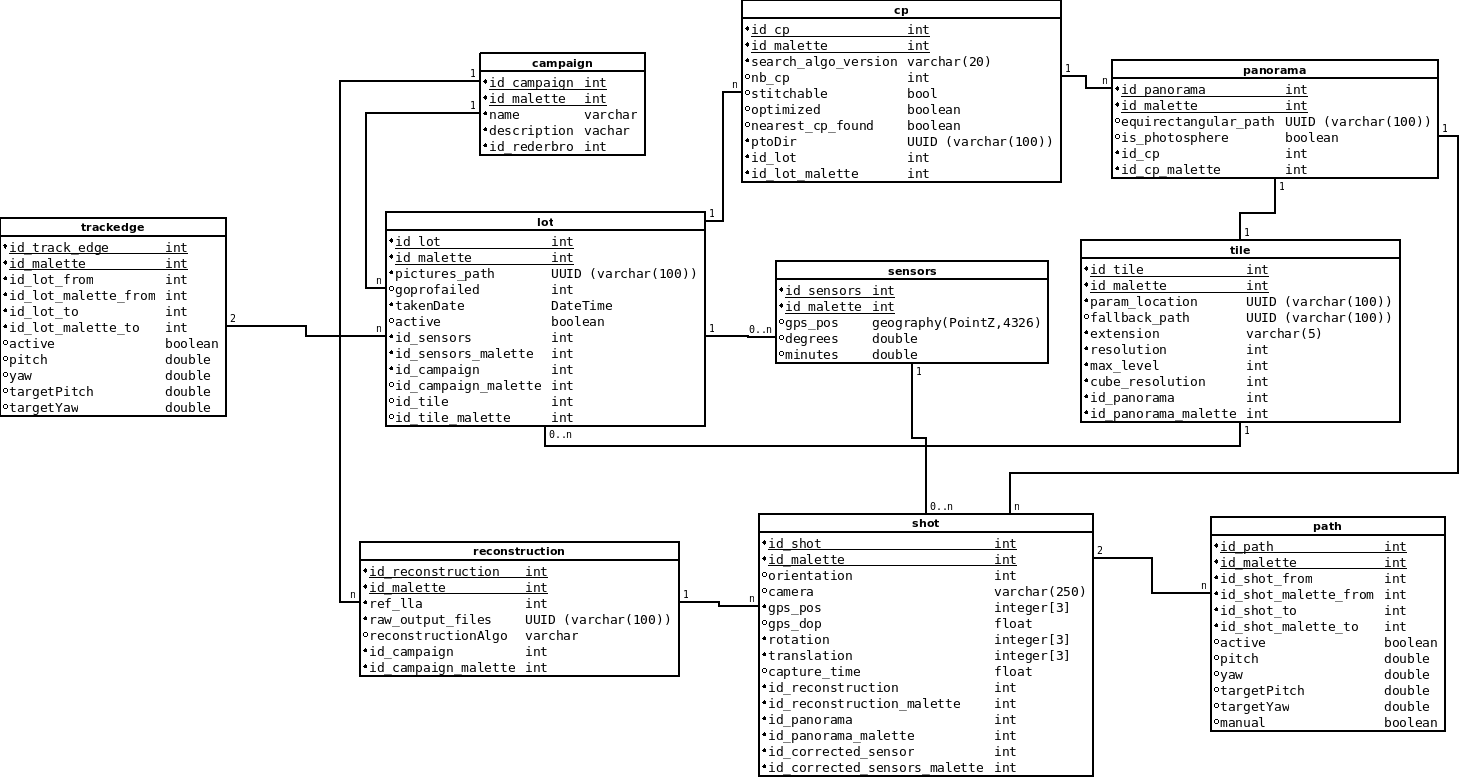
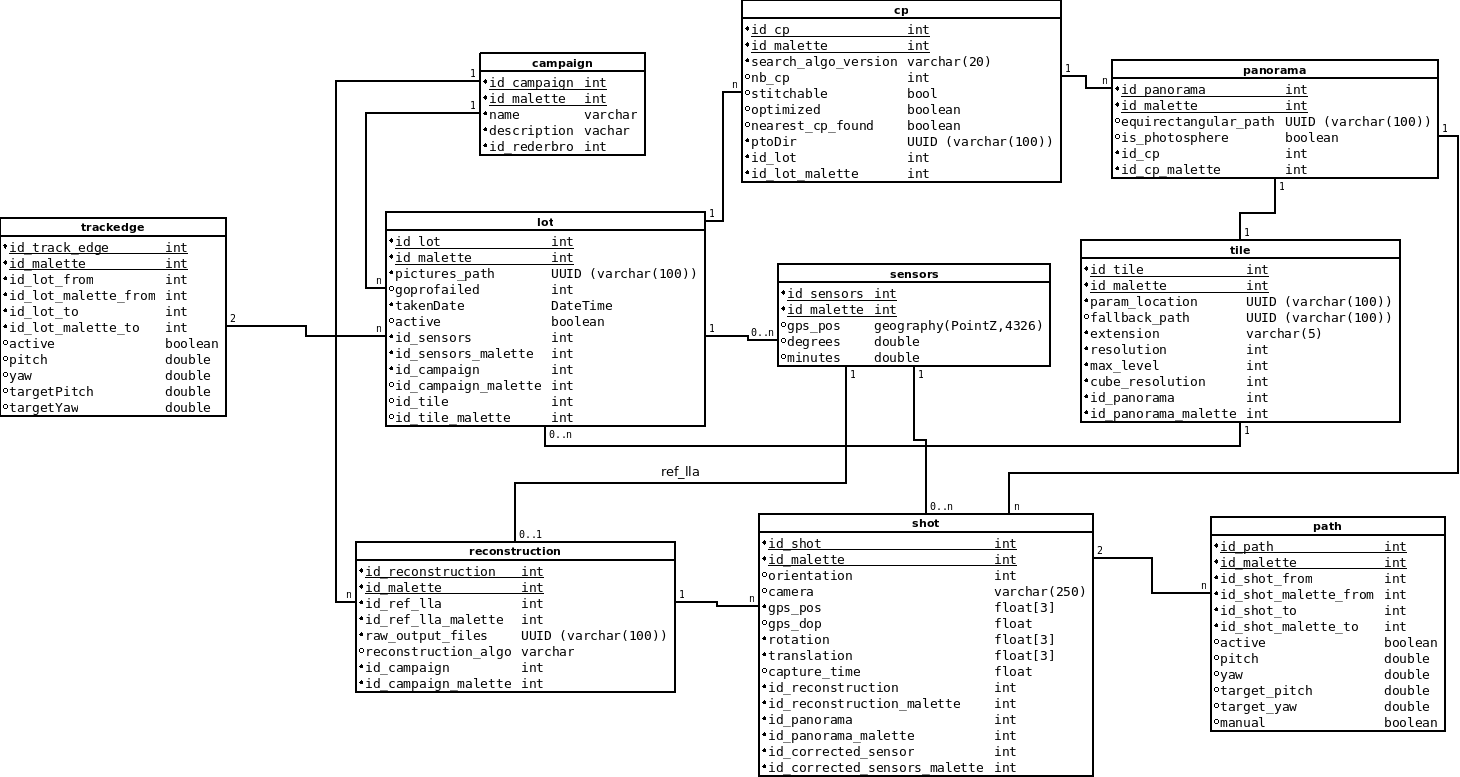
Updating DB documentation and adding migration script

diff --git a/dbrest/database/migrate_repository/versions/001_OpenSFM_tables_.py b/dbrest/database/migrate_repository/versions/001_OpenSFM_tables_.py
@@ -1,0 +1,110 @@
+from sqlalchemy import *
+from migrate import *
+
+
+from migrate.changeset import schema
+pre_meta = MetaData()
+post_meta = MetaData()
+path = Table('path', post_meta,
+    Column('id_path', Integer, primary_key=True, nullable=False),
+    Column('id_malette', Integer, primary_key=True, nullable=False),
+    Column('id_shot_from', Integer, nullable=False),
+    Column('id_shot_malette_from', Integer, nullable=False),
+    Column('id_shot_to', Integer, nullable=False),
+    Column('id_shot_malette_to', Integer, nullable=False),
+    Column('active', Boolean, default=ColumnDefault(True)),
+    Column('pitch', Float),
+    Column('yaw', Float),
+    Column('target_pitch', Float),
+    Column('target_yaw', Float),
+    Column('manual', Boolean, default=ColumnDefault(False)),
+)
+
+reconstruction = Table('reconstruction', post_meta,
+    Column('id_reconstruction', Integer, primary_key=True, nullable=False),
+    Column('id_malette', Integer, primary_key=True, nullable=False),
+    Column('id_ref_lla', Integer, nullable=False),
+    Column('id_ref_lla_malette', Integer, nullable=False),
+    Column('raw_output_files', String(length=100), nullable=False),
+    Column('reconstruction_algo', String(length=20), nullable=False),
+    Column('id_campaign', Integer, nullable=False),
+    Column('id_campaign_malette', Integer, nullable=False),
+)
+
+shot = Table('shot', post_meta,
+    Column('id_shot', Integer, primary_key=True, nullable=False),
+    Column('id_malette', Integer, primary_key=True, nullable=False),
+    Column('orientation', Integer),
+    Column('camera', String(length=250)),
+    Column('gps_pos', ARRAY(Float(), dimensions=3), nullable=False),
+    Column('gps_dop', Float),
+    Column('rotation', ARRAY(Float(), dimensions=3), nullable=False),
+    Column('translation', ARRAY(Float(), dimensions=3), nullable=False),
+    Column('capture_time', Float),
+    Column('id_reconstruction', Integer, nullable=False),
+    Column('id_reconstruction_malette', Integer, nullable=False),
+    Column('id_panorama', Integer, nullable=False),
+    Column('id_panorama_malette', Integer, nullable=False),
+    Column('id_corrected_sensor', Integer),
+    Column('id_corrected_sensor_malette', Integer),
+)
+
+
+upgradefKeySQL = """
+ALTER TABLE reconstruction
+ADD CONSTRAINT reconstruction_id_campaign_fkey  FOREIGN KEY (id_campaign, id_campaign_malette)
+                                                REFERENCES campaign(id_campaign, id_malette),
+ADD CONSTRAINT reconstruction_id_ref_lla_fkey  FOREIGN KEY (id_ref_lla, id_ref_lla_malette)
+                                               REFERENCES sensors(id_sensors, id_malette);
+
+ALTER TABLE shot
+ADD CONSTRAINT shot_id_reconstruction_fkey FOREIGN KEY (id_reconstruction, id_reconstruction_malette)
+                                           REFERENCES reconstruction(id_reconstruction, id_malette),
+ADD CONSTRAINT shot_id_panorama_fkey FOREIGN KEY (id_panorama, id_panorama_malette)
+                                     REFERENCES panorama(id_panorama, id_malette),
+ADD CONSTRAINT shot_id_corrected_sensor FOREIGN KEY (id_corrected_sensor,id_corrected_sensor_malette)
+                                        REFERENCES sensors(id_sensors, id_malette);
+
+ALTER TABLE path
+ADD CONSTRAINT path_id_shot_from_fkey FOREIGN KEY (id_shot_from, id_shot_malette_from)
+                                      REFERENCES shot(id_shot, id_malette),
+ADD CONSTRAINT path_id_shot_to_fkey FOREIGN KEY (id_shot_to, id_shot_malette_to)
+                                    REFERENCES shot(id_shot, id_malette);
+"""
+
+downgradefKeySQL = """
+ALTER TABLE reconstruction
+DROP CONSTRAINT reconstruction_id_campaign_fkey,
+DROP CONSTRAINT reconstruction_id_ref_lla_fkey;
+
+ALTER TABLE shot
+DROP CONSTRAINT shot_id_reconstruction_fkey,
+DROP CONSTRAINT shot_id_panorama_fkey,
+DROP CONSTRAINT shot_id_corrected_sensor;
+
+ALTER TABLE path
+DROP CONSTRAINT path_id_shot_from_fkey,
+DROP CONSTRAINT path_id_shot_to_fkey;
+"""
+
+def upgrade(migrate_engine):
+    # Upgrade operations go here. Don't create your own engine; bind
+    # migrate_engine to your metadata
+    pre_meta.bind = migrate_engine
+    post_meta.bind = migrate_engine
+    post_meta.tables['path'].create()
+    post_meta.tables['reconstruction'].create()
+    post_meta.tables['shot'].create()
+
+    migrate_engine.execute(upgradefKeySQL, multi=True)
+
+def downgrade(migrate_engine):
+    # Operations to reverse the above upgrade go here.
+    pre_meta.bind = migrate_engine
+    post_meta.bind = migrate_engine
+
+    migrate_engine.execute(downgradefKeySQL, multi=True)
+
+    post_meta.tables['path'].drop()
+    post_meta.tables['reconstruction'].drop()
+    post_meta.tables['shot'].drop()
